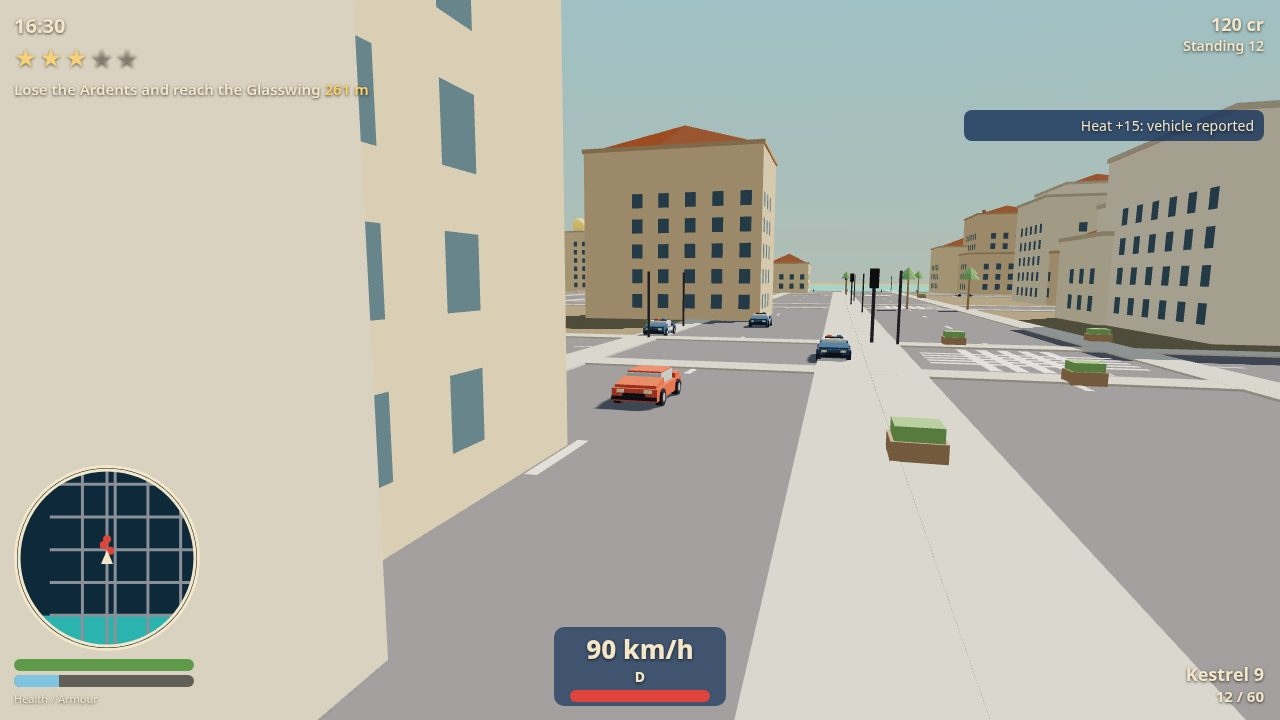
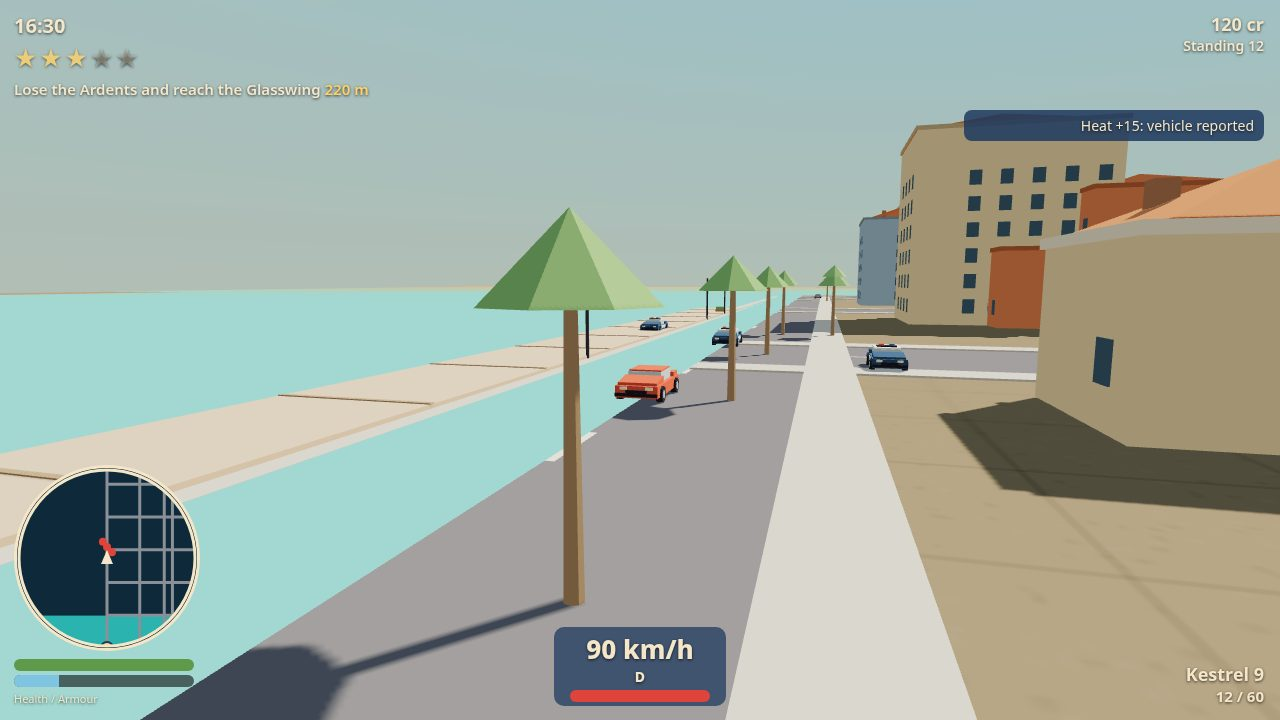
Stage 2 screenshots: re-stage all four shots to the BRIEF-03 plan
- districts: windows on both x faces of district buildings
- chase: three cruisers spread wide behind the Spindle on the boulevard
- foot: Ines crossing the street in Old Mercado, Sprint parked, traffic
  on the cross street, Halo Tower above the rooftops
- mission: tow close behind the haul on the Corvane Bridge approach
- police: roadblock spread wide of the pause panel, SWAT van staged
  clear of the panel, live muzzle flashes and tracers
- screenshots: real 1280x720 renders, seed 7, time 16.5, JPEG <256 KiB

diff --git a/game/js/main.js b/game/js/main.js
@@ -103,7 +103,10 @@
     var S = CC.S;
     S.shotMode = true;
     if (name === 'chase') {
-      var car = CC.vehicles.make(S.scene, 'spindle', 180, 60, Math.PI, 0xC0392B);
+      // Shot 1, the cover: a chase down the Sunfield boulevard. Ines in a
+      // Mistral Spindle, three Calida Ardent cruisers behind, lights on.
+      // The boulevard road runs at x 320, clear of the hotel row.
+      var car = CC.vehicles.make(S.scene, 'spindle', 320, 60, Math.PI, 0xC0392B);
       car.speed = 25;
       S.vehicle = car; S.player.inVehicle = true; S.player.x = car.x; S.player.z = car.z;
       S.heat = 100; S.stars = 3;
@@ -111,79 +114,114 @@
       CC.hud.setObjective('Lose the Ardents and reach the Glasswing');
       CC.notify.push('Heat +15: vehicle reported');
       var rng = CC.rng.make(seed + 9);
-      var px = [172, 188, 180];
+      var px = [308, 320, 330];
       for (var i = 0; i < 3; i++) {
         var m = CC.geo.carBody(CC.config.vehicles.ardent);
-        m.position.set(px[i], 0, 78 + i * 14);
+        m.position.set(px[i], 0, 74 + i * 13);
         m.rotation.y = Math.PI;
         S.scene.add(m);
-        S.police.push({ kind: 'cruiser', mesh: m, x: px[i], z: 78 + i * 14, heading: Math.PI, speed: 24, health: 100, state: 'pursuit', shootTimer: 0 });
+        S.police.push({ kind: 'cruiser', mesh: m, x: px[i], z: 74 + i * 13, heading: Math.PI, speed: 24, health: 100, state: 'pursuit', shootTimer: 0 });
       }
-      CC.camera3.shotCam = { pos: [172, 5.5, 32], look: [181, 1.5, 62] };
+      CC.camera3.shotCam = { pos: [312, 5.5, 30], look: [321, 1.5, 62] };
       CC.camera3.setYaw(Math.PI);
     } else if (name === 'foot') {
-      S.player.x = -120; S.player.z = 110; S.player.heading = Math.PI;
+      // Shot 2, the city on foot: Ines walks through Old Mercado past the
+      // awning stalls and a crowd, traffic on the cross street, Halo Tower
+      // rising above the rooftops in the distance.
+      S.player.x = -150; S.player.z = 6; S.player.heading = 2.45;
       S.player.inVehicle = false; S.vehicle = null;
       if (S.player.mesh) S.player.mesh.position.set(S.player.x, 0, S.player.z);
-      var v = CC.vehicles.make(S.scene, 'sprint', -114, 96, Math.PI / 2, 0x7FA8C9);
+      var v = CC.vehicles.make(S.scene, 'sprint', -144, -2, Math.PI / 2, 0x7FA8C9);
       S.nearParkedPrompt = v;
       S.waypoint = { x: 0, z: -200, label: 'Halo Tower' };
-      CC.hud.setObjective('Explore Saltmarsh Quay');
+      CC.hud.setObjective('Explore Old Mercado');
       CC.hud.showPrompt('F: Hijack');
-      CC.camera3.setYaw(Math.PI);
+      // Staged traffic on the cross street (z 0 road).
+      [[-120, 2, 'sprint'], [-100, -2, 'cutter']].forEach(function (tc) {
+        var tm = CC.geo.carBody(CC.config.vehicles[tc[2]]);
+        tm.position.set(tc[0], 0, tc[1]);
+        tm.rotation.y = tc[0] < -150 ? -Math.PI / 2 : Math.PI / 2;
+        S.scene.add(tm);
+      });
+      // Fixed camera: Ines crossing the street in the foreground, stalls,
+      // the Sprint and the Halo Tower behind her.
+      CC.camera3.shotCam = { pos: [-186, 6, 20], look: [-130, 6, -30] };
+      CC.camera3.setYaw(2.45);
       var rng2 = CC.rng.make(seed + 5);
       CC.peds.spawnNear(S.scene, S.player.x, S.player.z, rng2);
       for (var pi = 0; pi < 8; pi++) {
         var pm = CC.geo.personMesh([0xC8643B, 0x2BB3B0, 0xF2A81D, 0x5E9A4A][pi % 4], 0xE8B88A);
-        var pxx = -132 + pi * 4, pzz = 96 + (pi % 3) * 5;
+        var pxx = -170 + pi * 4, pzz = 0 + (pi % 3) * 3;
         pm.position.set(pxx, 0, pzz);
         S.scene.add(pm);
         CC.peds.list.push({ mesh: pm, x: pxx, z: pzz, road: CC.city.roads[4], along: pxx, dir: 1, speed: 1.1, state: 'walk', lookTimer: 0, fleeX: 0, fleeZ: 0, bob: pi, tipped: false });
       }
     } else if (name === 'mission') {
-      var tow = CC.vehicles.make(S.scene, 'tow', 180, -140, Math.PI, 0xE8A33D);
+      // Shot 3, the mission set piece: Mission 5 Convoy on the Corvane
+      // Bridge approach. Ines in the Tidewell Tow close behind a Brasswater
+      // Haul lorry. Staged on flat ground south of the bridge ramp, with
+      // the ramp and deck rising behind the lorry.
+      var tow = CC.vehicles.make(S.scene, 'tow', 180, -230, Math.PI, 0xE8A33D);
       tow.speed = 14;
-      var hooked = CC.vehicles.make(S.scene, 'sprint', 180, -132, Math.PI, 0x7FA8C9);
-      tow.towed = hooked;
       S.vehicle = tow; S.player.inVehicle = true; S.player.x = tow.x; S.player.z = tow.z;
-      var haul = CC.vehicles.make(S.scene, 'haul', 180, -168, Math.PI, 0x8A8F98);
+      var haul = CC.vehicles.make(S.scene, 'haul', 180, -255, Math.PI, 0x8A8F98);
       haul.speed = 12;
       S.missionHaul = haul;
-      S.mission = { id: 1, name: 'Wrong Tow', stage: 2, timer: 0 };
-      S.waypoint = { x: 180, z: -280, label: 'Mercado garage' };
-      CC.hud.setObjective('Tow the Vesper to the Mercado garage');
-      CC.hud.setProgress(0.55);
+      S.missionHaulEngine = 55;
+      S.mission = { id: 5, name: 'Convoy', stage: 1, timer: 300 };
+      S.waypoint = { x: 180, z: -255, label: 'Brasswater Haul' };
+      CC.hud.setObjective('Disable the lorry engine');
+      CC.hud.setProgress(0.45);
       CC.notify.push('Game saved');
-      // Fixed shot camera: the chase camera sits against the east-side
-      // building on the bridge approach, so pin the camera west and up.
-      CC.camera3.shotCam = { pos: [166, 7, -116], look: [181, 1.5, -168] };
+      // Bridge traffic moving on the bridge lanes.
+      [[172, -235, 'sprint'], [188, -250, 'cutter']].forEach(function (tc) {
+        var tm = CC.geo.carBody(CC.config.vehicles[tc[2]]);
+        tm.position.set(tc[0], 0, tc[1]);
+        tm.rotation.y = Math.PI;
+        S.scene.add(tm);
+      });
+      CC.camera3.shotCam = { pos: [196, 9, -215], look: [180, 1.5, -245] };
       CC.camera3.setYaw(Math.PI);
     } else if (name === 'police') {
+      // Shot 4, police responding: a 4-star roadblock at a Quay junction,
+      // cruisers angled across the road, foot officers firing from behind
+      // barriers, a SWAT van arriving with its lights on. Pause menu open.
       var pc = CC.vehicles.make(S.scene, 'spindle', 0, 205, Math.PI, 0xC0392B);
       pc.speed = 0;
       S.vehicle = pc; S.player.inVehicle = true; S.player.x = pc.x; S.player.z = pc.z;
-      S.heat = 100; S.stars = 3;
+      S.heat = 180; S.stars = 4;
       S.waypoint = { x: 0, z: 160, label: 'Roadblock' };
       CC.hud.setObjective('Break through the roadblock');
       var rb = { x: 0, z: 160, units: [] };
       S.roadblock = rb;
       for (var i = 0; i < 3; i++) {
         var cm = CC.geo.carBody(CC.config.vehicles.ardent);
-        cm.position.set(-10 + i * 10, 0, 160);
+        cm.position.set(-24 + i * 24, 0, 160);
         cm.rotation.y = Math.PI / 2 + (i - 1) * 0.45;
         S.scene.add(cm);
-        rb.units.push({ kind: 'cruiser', mesh: cm, x: -10 + i * 10, z: 160, heading: 0, speed: 0, health: 100, state: 'block', shootTimer: 0 });
+        rb.units.push({ kind: 'cruiser', mesh: cm, x: -24 + i * 24, z: 160, heading: 0, speed: 0, health: 100, state: 'block', shootTimer: 0 });
       }
       for (var j = 0; j < 4; j++) {
         var off = CC.geo.personMesh(0x1F3A5F, 0xE8B88A);
-        off.position.set(-14 + j * 9, 0, 168);
+        off.position.set(-30 + j * 20, 0, 168);
         S.scene.add(off);
-        rb.units.push({ kind: 'foot', mesh: off, x: -14 + j * 9, z: 168, heading: 0, speed: 0, health: 60, state: 'block', shootTimer: j * 0.3 });
+        rb.units.push({ kind: 'foot', mesh: off, x: -30 + j * 20, z: 168, heading: 0, speed: 0, health: 60, state: 'block', shootTimer: j * 0.3 });
       }
       for (var k = 0; k < 3; k++) {
         var pm = CC.geo.carBody(CC.config.vehicles.ardent);
+        pm.position.set(-20 + k * 20, 0, 190);
+        pm.rotation.y = Math.PI;
         S.scene.add(pm);
         S.police.push({ kind: 'cruiser', mesh: pm, x: -20 + k * 20, z: 190, heading: Math.PI, speed: 0, health: 100, state: 'pursuit', shootTimer: 0 });
+      }
+      // SWAT van arriving from the east with its lights on, staged clear
+      // of the pause panel so it reads at a glance.
+      var swat = CC.vehicles.make(S.scene, 'swatvan', 18, 182, Math.PI / 2, 0x1F3A5F);
+      S.police.push({ kind: 'swat', mesh: swat.mesh, x: 18, z: 182, heading: Math.PI / 2, speed: 0, health: 160, state: 'pursuit', shootTimer: 0 });
+      // Muzzle flashes and tracers from the roadblock officers.
+      for (var f = 0; f < 4; f++) {
+        CC.fx.muzzle(-30 + f * 20, 168, 0);
+        CC.fx.tracer(-30 + f * 20, 168, 0, 200);
       }
       S.mode = 'pause';
       CC.menu.hideAll();
@@ -210,11 +248,8 @@
       if (S.shotMode) {
         if (shotName === 'chase' && S.vehicle) S.vehicle.speed = 25;
         if (shotName === 'mission' && S.vehicle) S.vehicle.speed = 14;
-        if (shotName === 'mission' && S.missionHaul) {
-          S.missionHaul.z -= 12 * dt;
-          S.missionHaul.mesh.position.set(S.missionHaul.x, 0, S.missionHaul.z);
-          S.missionHaul.mesh.rotation.y = Math.PI;
-        }
+        // The mission-shot haul stays staged: in real play
+        // CC.missions.update drives it across the bridge.
         if (shotName === 'foot') CC.hud.showPrompt('F: Hijack');
       } else {
         if (input.enter && S.vehicle) CC.ownership.exitVehicle();
@@ -285,6 +320,12 @@
       CC.minimap.draw();
       CC.hud.update();
       CC.camera3.update(0.016, camera, false);
+      // Keep a muzzle flash and tracer live at the screenshot instant:
+      // the one-off flashes from staging have faded by then.
+      var fxOx = [-30, -10, 10, 30][frameCount % 4];
+      CC.fx.muzzle(fxOx, 168, 0);
+      CC.fx.tracer(fxOx, 168, 0, 200);
+      CC.fx.update(0.016);
     }
     if (frameCount === 90) window.__shotReady = true;
     renderer.render(scene, camera);

diff --git a/game/js/world/districts.js b/game/js/world/districts.js
@@ -25,6 +25,12 @@
         parts.push({ shape: 'box', w: 1.3, h: 1.7, d: 0.12, x: wx, y: wy, z: z + d / 2 + 0.03, color: 0x2E4A5E });
         parts.push({ shape: 'box', w: 1.3, h: 1.7, d: 0.12, x: wx, y: wy, z: z - d / 2 - 0.03, color: 0x2E4A5E });
       }
+      var colsX = Math.max(1, Math.floor((d - 4) / 3.4));
+      for (var cx2 = 0; cx2 < colsX; cx2++) {
+        var wz = z - d / 2 + 2.4 + cx2 * 3.4;
+        parts.push({ shape: 'box', w: 0.12, h: 1.7, d: 1.3, x: x + w / 2 + 0.03, y: wy, z: wz, color: 0x2E4A5E });
+        parts.push({ shape: 'box', w: 0.12, h: 1.7, d: 1.3, x: x - w / 2 - 0.03, y: wy, z: wz, color: 0x2E4A5E });
+      }
     }
     parts.push({ shape: 'box', w: Math.min(w * 0.55, 7), h: 2.4, d: 0.12, x: x, y: by + 1.5, z: z + d / 2 + 0.03, color: 0x1E3A4A });
     parts.push({ shape: 'box', w: Math.min(w * 0.6, 7), h: 0.18, d: 1.8, x: x, y: by + 3.1, z: z + d / 2 + 0.95, rx: -0.22, color: 0xF2A81D });
